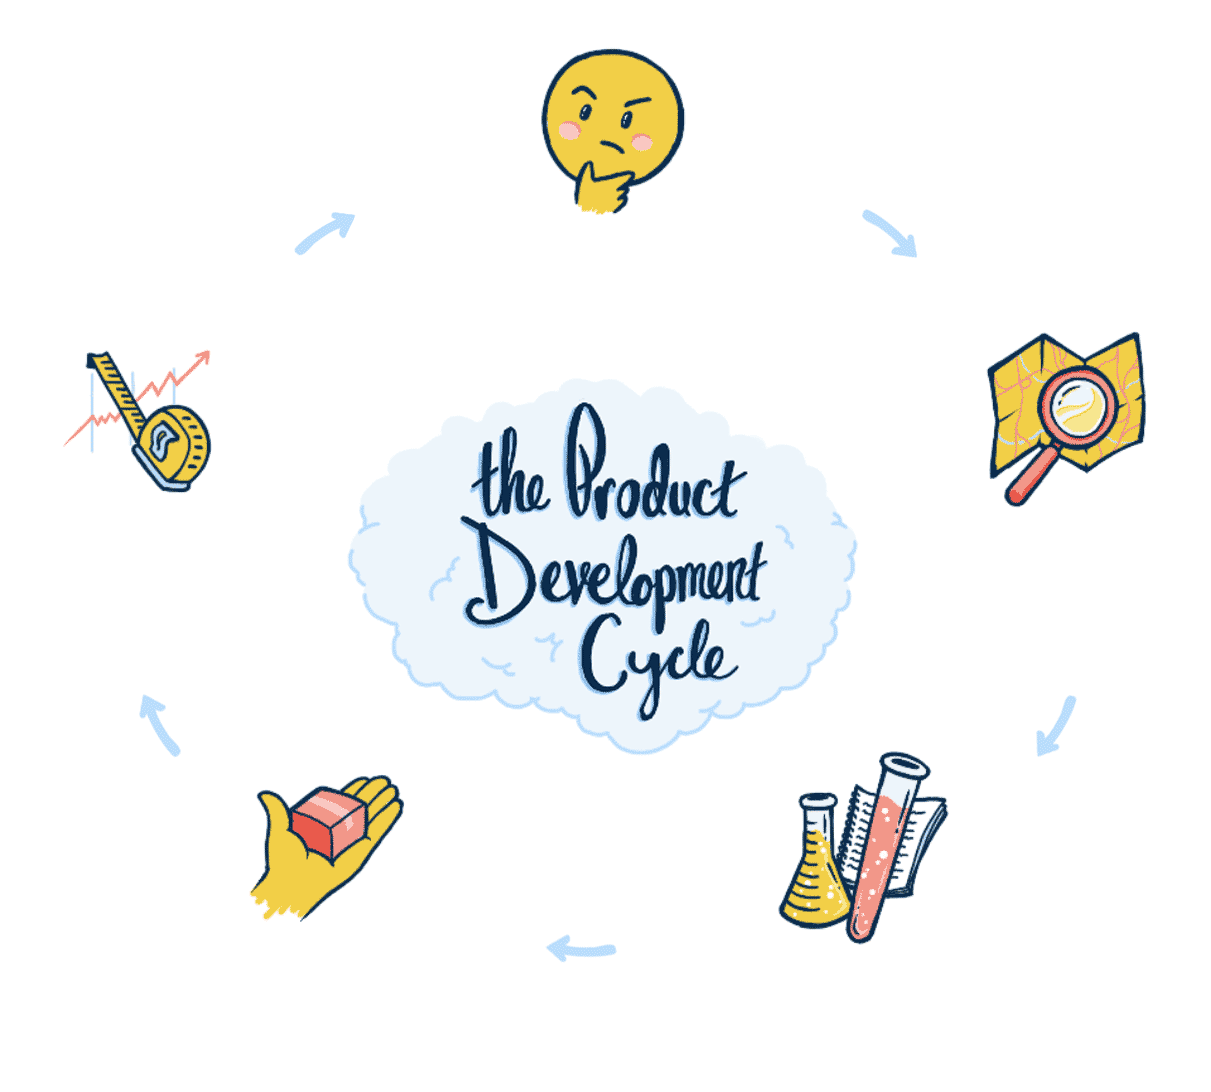
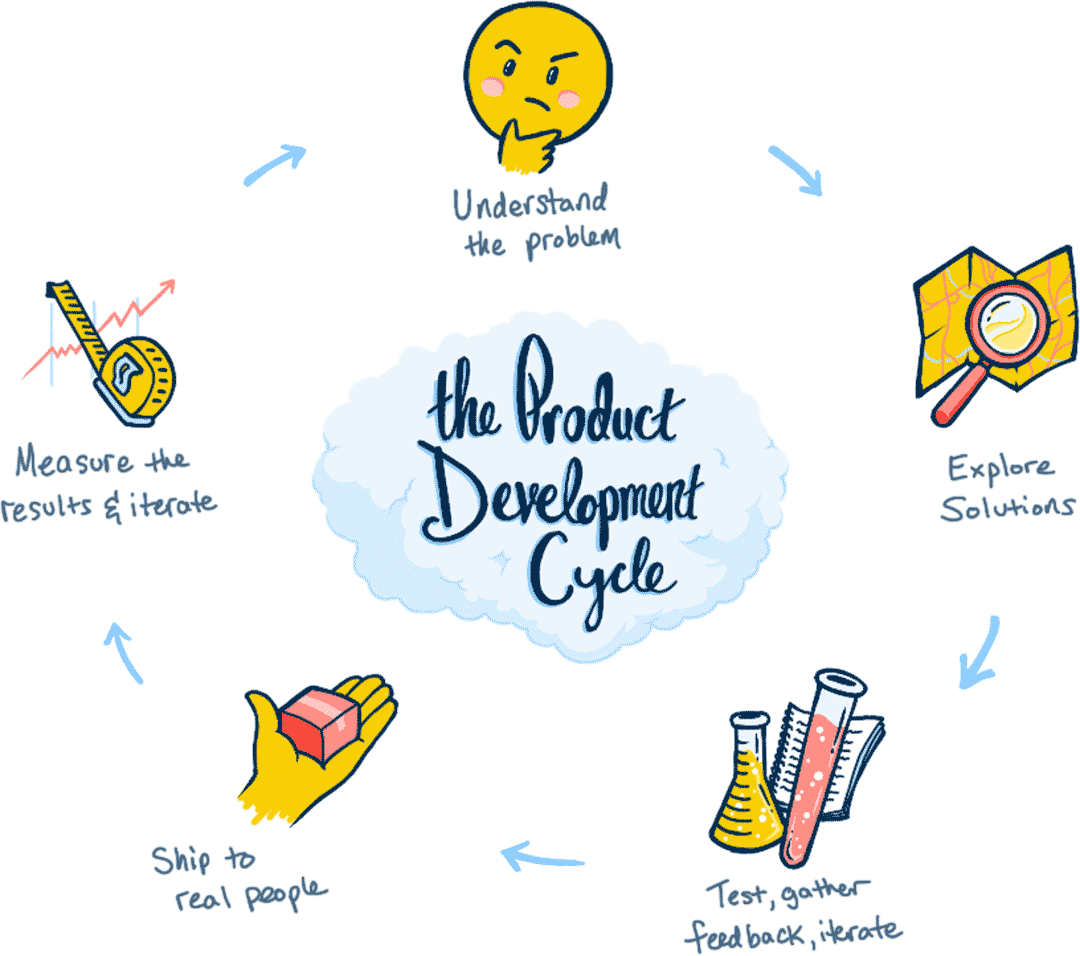
more responsive styling for intro sections

diff --git a/_includes/home/intro.html b/_includes/home/intro.html
@@ -4,7 +4,7 @@
       {% include site-nav.html %}
 
       <div class="intro-illustration">
-        <img src="/img/intro-sm.png" class=" intro-illustration-banner-sm relative" alt="illustration portraying me juggling user experience, technology, and business goals" width="400" />
+        <img src="/img/intro-sm.png" class="img-full-width intro-illustration-banner-sm relative" alt="illustration portraying me juggling user experience, technology, and business goals" width="400" />
       </div>
 
       <h2 class="headline mt4 mb2 pt3">
@@ -40,37 +40,20 @@
   </div>
 </section>
 
-<section class="max-width-4 mx-auto clearfix mb4 pb4 mt2 intro-section">
+<section class="max-width-4 mx-auto clearfix mb4 pb4 mt2 intro-section pdc-section">
   <div class="col col-4 mt4 pt4 mob-mt0">
-    <h2 class="headline mt2">
-      Design process
-    </h2>
-    <p class="description">
-      Product development is an ongoing cycle of identifying problems, exploring solutions, testing, gathering feedback, making changes, shipping to real people, and measuring results. This is how I work.
-    </p>
-    <!--<p class="description">
-      <a href="#">My process</a> | <a href="#">The tools I use</a>
-    </p>-->
+    <div class="pdc-content">
+      <h2 class="headline mt2">
+        Design process
+      </h2>
+      <p class="description">
+        Product development is an ongoing cycle of identifying problems, exploring solutions, testing, gathering feedback, making changes, shipping to real people, and measuring results. This is how I work.
+      </p>
+    </div>
   </div>
 
-  <div class="col col-8 pdc-graphic">
-    <ol class="pdc-steps py4 px0 relative">
-      <li class="inline-block center absolute pdc-step-item first">
-        <p>Understand <br>the problem</p>
-      </li>
-      <li class="inline-block center absolute pdc-step-item second">
-        <p>Explore <br>solutions</p>
-      </li>
-      <li class="inline-block center absolute pdc-step-item third">
-        <p>Test, gather <br>feedback, iterate</p>
-      </li>
-      <li class="inline-block center absolute pdc-step-item fourth">
-        <p>Ship to <br>real people</p>
-      </li>
-      <li class="inline-block center absolute pdc-step-item fifth">
-        <p>Measure the <br>results & iterate</p>
-      </li>
-    </ol>
+  <div class="intro-illustration col col-8 pdc-graphic">
+    <img alt="An illustration depicting the product development cycle" src="/img/product-development-cycle.png" class="img-full-width inline-block pdc-graphic right mr3" width="540" />
   </div>
 
 </section>

diff --git a/_sass/includes/_home.scss b/_sass/includes/_home.scss
@@ -88,7 +88,6 @@
 .wid-graphic {
   @media (max-width: $mobile) {
     margin-left: 0;
-    max-width: 400px;
   }
 }
 
@@ -103,38 +102,34 @@
 
 // how I work section
 
-.pdc-graphic {
-  background-image: url(/img/product-development-cycle.png);
-  background-size: 100%;
-  background-repeat: no-repeat;
-  height: 546px;
+@media (min-width: $mobile) and (max-width: 1020px) {
+  .pdc-section {
+    .col-4 {
+      width: 317px;
+    }
+    .col-8 {
+      width: calc(100% - 317px);
+    }
+  }
 }
 
-// woof...but yeah quick and dirty solution
-// need to refactor this for responsive
-.pdc-step-item {
-  &.first {
-    top: 72px;
-    left: 246px;
+.pdc-content {
+  @media (min-width: $mobile) {
+    max-width: 342px;
   }
-  &.second {
-    top: 222px;
-    left: 487px;
+  @media (min-width: $mobile) and (max-width: 960px) {
+    float: left;
   }
-  &.third {
-    top: 430px;
-    left: 354px;
-  }
-  &.fourth {
-    top: 430px;
-    left: 105px;
-  }
-  &.fifth {
-    top: 222px;
-    left: 8px;
-  }
+}
 
-  p { line-height: 20px; }
+.pdc-graphic {
+  @media (max-width: 1020px) {
+    margin-right: 0;
+  }
+  @media (max-width: $mobile) {
+    float: none;
+    margin-top: 2rem;
+  }
 }
 
 // quotes section
